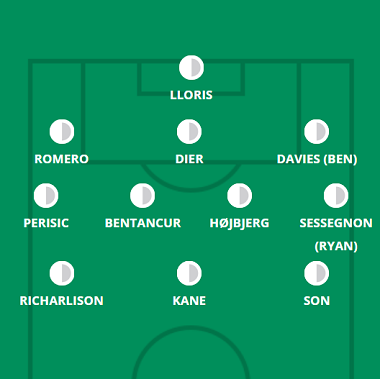
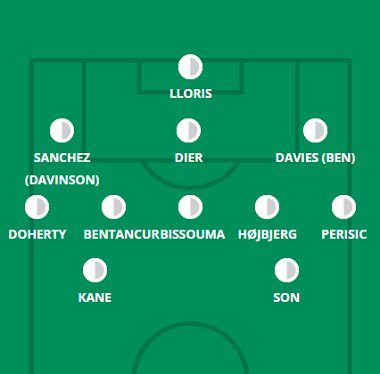
chelsea, palace, tot

diff --git a/chelsea.html b/chelsea.html
@@ -68,7 +68,7 @@
             <hgroup>
                 <h1> Provável Escalação</h1>
                 <h2 class="direita"> por FabioVascão </h2>
-                <h3 class="direita"> Atualizado em 07/Outubro/2022 </h3>
+                <h3 class="direita"> Atualizado em 14/Outubro/2022 </h3>
             </hgroup>
     
             <h2 class="time"> <img src="_fotos/_logos/logochelsea.png" />Chelsea</h2>
@@ -77,9 +77,9 @@
                     <img src="_fotos/_dinamicas/chelsea.png" />
                 </figure>
             </aside>
-                <div class="escalacao"><h2 class="titulo">Ultimas Notícias</h2> <h4><p>N'Golo Kante (ritmo de partido) e Wesley Fofana (lesão no joelho) são os únicos ausentes para o confronto com o Wolves, uma partida que cai como o jogo do meio em uma série de jogos de quarta-sábado-terça-feira - então Graham Potter poderia fazer um punhado de mudanças com o gerenciamento de minutos em mente. É tudo um jogo de adivinhação no momento, pois vimos três sistemas diferentes usados (3-5-2, 4-2-2-2, 3-4-2-1) em suas três primeiras partidas no comando, enquanto o próprio Potter está em território inexplorado com um elenco tão grande e uma programação regular de dois jogos por semana. Nove jogadores começaram os dois jogos competitivos na última semana, com Ben Chilwell um possível candidato a um descanso, já que ele passou tanto tempo afastado nos últimos 12 meses e acabou de ter 90 minutos consecutivos. Reece James também acumulou quatro jogos completos por clube e seleção na última quinzena e Thiago Silva, de 38 anos, durou os dois jogos desta semana, mas Potter pode considerar esse par muito importante para o seu time. Marc Cucurella está agora livre de problemas e "estará envolvido" contra o Wolves: ele poderia jogar como lateral no lugar de Chilwell, mas não é usado nessa posição por Potter desde fevereiro, com o espanhol sendo o lateral-esquerdo. papel híbrido de meia/lateral-esquerdo em Brighton. É também uma posição que o vimos ocupar na primeira partida de Potter no comando, contra o RB Salzburg, com Raheem Sterling brilhando no papel de 'Leandro Trossard' mais adiante no flanco. Jorginho e Kai Havertz esperam ser convocados após pequenas lesões que forçaram em parte seus bancos na Liga dos Campeões, enquanto Trevoh Chalobah busca uma oportunidade no lugar de Fofana no meio-campo. Kalidou Koulibaly também é uma opção em ambos os lados dos três zagueiros (ele apareceu na esquerda na quarta-feira), enquanto Conor Gallagher está fazendo o possível para dar ao seu técnico uma dor de cabeça na seleção no meio-campo, com algumas participações positivas no banco ultimamente.</p></h4><br>
-                    <h4><strong>Jogadores fora da próxima partida:</strong> Kante e Fofana</h4><br><br>
-                    <h4><strong>Jogadores dúvidas:</strong> </h4>
+                <div class="escalacao"><h2 class="titulo">Ultimas Notícias</h2> <h4><p>N'Golo Kanté (lesão na coxa), Wesley Fofana (lesão no joelho) e Reece James (lesão no joelho) perderão a viagem ao Aston Villa, com James e Kane prontos para ver especialistas neste fim de semana para determinar a extensão de suas lesões. Não houve outras novas preocupações relatadas no pré-jogo de Graham Potter, embora ainda não se saiba se Hakim Ziyech se recupera da doença que o levou a perder o jogo da Liga dos Campeões contra o Milan. Uma reviravolta de terça a domingo significa que podemos não ver as mudanças por atacado que causaram a carnificina do Fantasy na 11° Rodada, mas o Chelsea está prestes a embarcar em uma (outra) semana de três jogos, com Brentford e Manchester United seguindo na quarta e sábado e minuto -gestão certamente no fundo da mente de Potter. Kalidou Koulibaly e Trevoh Chalobah tiveram muito tempo de jogo nos últimos três jogos competitivos do Chelsea, por exemplo, enquanto Mason Mount é o único defensor externo sempre presente desde a mudança de regime - embora ele tenha pelo menos o segundo tempo de folga no meio da semana. Como o chefe do Blues lida sem James é a grande questão, com Cesar Azpilicueta o candidato mais provável se for um zagueiro, mas Ruben Loftus-Cheek, Raheem Sterling ou Christian Pulisic possibilidades se ele ficar com um sistema de ala no Villa Park. Conor Gallagher, Loftus-Cheek, Pulisic e Armando Broja esperam dar uma olhada nesta semana movimentada, com o jogo de Brentford em particular parecendo pronto para a rotação.</p></h4><br>
+                    <h4><strong>Jogadores fora da próxima partida:</strong> Kante, Fofana e James</h4><br><br>
+                    <h4><strong>Jogadores dúvidas:</strong> Ziyech </h4>
                 </div> 
         </header>
         </article>

diff --git a/tot.html b/tot.html
@@ -68,7 +68,7 @@
             <hgroup>
                 <h1> Provável Escalação</h1>
                 <h2 class="direita"> por FabioVascão </h2>
-                <h3 class="direita"> Atualizado em 07/Outubro/2022 </h3>
+                <h3 class="direita"> Atualizado em 14/Outubro/2022 </h3>
             </hgroup>
     
             <h2 class="time"> <img src="_fotos/_logos/logospurs.png" />Tottenham</h2>
@@ -77,9 +77,9 @@
                     <img src="_fotos/_dinamicas/tot.png" />
                 </figure>
             </aside>
-                <div class="escalacao"><h2 class="titulo">Ultimas Notícias</h2> <h4><p>Não tivemos notícias de Antonio Conte antes do prazo de sábado, mas sabemos que Emerson Royal inicia uma suspensão de três jogos e que Lucas Moura (lesão no tendão) permanecerá afastado por algum tempo, enquanto a viagem a Brighton também deve acontecer. logo para Dejan Kulusevski (lesão na coxa). Apesar de recentemente ter falado sobre a possibilidade de usar um 3-5-2, Conte permanece leal à configuração 3-4-3 que ele empregou durante a maior parte de seu mandato, iniciando Richarlison, Son Heung-min e Harry Kane juntos em ambos os jogos no sábado e na terça-feira. Não há nenhuma alternativa real para esse trio se o chefe dos Spurs mantiver suas armas taticamente (Bryan Gil é um substituto de impacto na melhor das hipóteses), mas ele tem mais opções disponíveis para ele se decidir sacrificar um ala e ocupar o meio-campo, com Oliver Skipp e as potenciais adições de Yves Bissouma, não muito confiáveis, à dupla habitual na volância. Alguns comentários bastante contundentes sobre Matt Doherty no meio da semana ("Agora não estou vendo ele no caminho certo para começar o jogo") e uma frieza geral em relação a Djed Spence aparentemente apontaria para Ivan Perisic e Ryan Sessegnon serem os laterais iniciais no Amex, com a reviravolta de terça a sábado, pelo menos, permitindo ao veterano croata um pouco de tempo extra de recuperação após quatro partidas consecutivas para clube e seleção no espaço de duas semanas. Também não se surpreenda ao ver uma mudança no meio-campo, com base em precedentes anteriores: Ben Davies e Davinson Sanchez são as alternativas a Clement Lenglet e Cristian Romero, respectivamente. </p></h4><br>
-                    <h4><strong>Jogadores fora da próxima partida:</strong> Bergwijn, Lucas Moura e Emerson Royal</h4><br><br>
-                    <h4><strong>Jogadores dúvidas:</strong> Kulusevski</h4>
+                <div class="escalacao"><h2 class="titulo">Ultimas Notícias</h2> <h4><p>Emerson Royal continua a cumprir uma suspensão de três jogos e Dejan Kulusevski (lesão na coxa) permanece de fora, mas Lucas Moura (tendão) estava de volta ao elenco da rodada no meio da semana e os comentários de Antonio Conte sobre ter o mesmo elenco disponível sugerem que Richarlison está bem depois que ele levou uma pancada no joelho na quarta-feira. Lucas provavelmente ainda não estará pronto para começar depois de uma longa paralisação, então a decisão de Conte de ir para um 3-4-3 ou 3-5-2 pode depender da prontidão do brasileiro para a ação, com Yves Bissouma ou Oliver Skipp está prestes a substituir, se não. Menos de 72 horas separam a vitória sobre Frankfurt neste jogo, então, com o confronto no meio da semana com o Manchester United também no horizonte, Conte pode embaralhar seu pacote um pouco com a gestão de minutos em mente. Ele insinuou fortemente no presser de sexta-feira que havia alguns jogadores que ele não descansaria, no entanto: Pierre Emile-Hojbjerg, Rodrigo Bentancur, Harry Kane e Eric Dier foram todos apontados como "jogando um futebol incrível", com Conte acrescentando que é "melhor" para eles "começar o jogo". Ivan Perisic certamente será convocado para este jogo após as partidas consecutivas de Ryan Sessegnon, enquanto os elogios a Matt Doherty na conferência de imprensa pré-jogo sugerem que o irlandês mantém seu lugar na lateral direita. A rotação pode continuar em ambos os lados de Dier na defesa, no entanto, com Cristian Romero em particular um candidato a um descanso, já que ele está em uma série de quatro partidas consecutivas desde o intervalo internacional. </p></h4><br>
+                    <h4><strong>Jogadores fora da próxima partida:</strong> Bergwijn, Kulusevski e Emerson Royal</h4><br><br>
+                    <h4><strong>Jogadores dúvidas:</strong> </h4>
                 </div> 
         </header>
         </article>

diff --git a/palace.html b/palace.html
@@ -68,7 +68,7 @@
             <hgroup>
                 <h1> Provável Escalação</h1>
                 <h2 class="direita"> por FabioVascão </h2>
-                <h3 class="direita"> Atualizado em 07/Outubro/2022 </h3>
+                <h3 class="direita"> Atualizado em 14/Outubro/2022 </h3>
             </hgroup>
     
             <h2 class="time"> <img src="_fotos/_logos/logopalace.png" />Crystal Palace</h2>
@@ -77,9 +77,9 @@
                     <img src="_fotos/_dinamicas/palace.png" />
                 </figure>
             </aside>
-                <div class="escalacao"><h2 class="titulo">Ultimas Notícias</h2> <h4><p>Nathaniel Clyne (lesão no tornozelo) juntou-se a James McArthur (lesão na virilha) para a partida deste fim de semana, mas Nathan Ferguson (lesão no pé), Jack Butland (problema na mão) e Joachim Andersen (lesão na panturrilha) voltaram a treinar esta semana, com o último programado para retornar se não houver retrocessos em sua recuperação. O Palace pode ter problemas no meio-campo além de Andersen, com Chris Richards não envolvido na equipe da semana passada (ele saiu da seleção por um problema não especificado) e Marc Guehi jogando através da barreira da dor na Rodada 9 com problemas no tornozelo, então James Tomkins estará em modo de espera mais uma vez na parte traseira. Vieira surpreendeu ao jogar Michael Olise como número oito contra o Chelsea e pode novamente optar por essa configuração muito ofensiva depois de se mostrar promissora contra adversários mais difíceis no papel, com opções alternativas de Will Hughes ou Jeffrey Schlupp no meio-campo se Olise for transferido para a ala direita às custas de Jordan Ayew. Odsonne Edouard e Jean-Philippe Mateta continuam a dividir o tempo de jogo no topo, mas depois de marcar contra os Blues no último fim de semana, Edouard espera ter feito o suficiente para manter sua vaga no Selhurst Park.</p></h4><br>
-                    <h4><strong>Jogadores fora da próxima partida:</strong> Clyne e McArthur</h4><br><br>
-                    <h4><strong>Jogadores dúvidas:</strong> Andersen, Butland, Ferguson e Richards</h4>
+                <div class="escalacao"><h2 class="titulo">Ultimas Notícias</h2> <h4><p>O Palace não tem novas preocupações com lesões, embora Will Hughes não faça parte da equipe neste fim de semana devido a uma doença. Patrick Vieira também se esquivou de uma pergunta sobre se algum de seus jogadores lesionados estaria de volta, com Nathaniel Clyne (lesão no tornozelo), James McArthur (lesão navirilha) e Chris Richards (lesão na coxa) na lista de lesões da última vez que ouvimos e Nathan Ferguson (lesão no pé) e Jack Butland (lesão na mão) só recentemente voltou a treinar após longas paradas. Vieira certamente não repetirá a experiência de 'Jeffrey Schlupp na lateral esquerda' após as dificuldades do internacional de Gana na semana passada, os rumores são de que Tyrick Mitchell não estava bem à frente daquele jogo contra o Leeds, o que explicaria seu banco. Schlupp ainda pode manter seu lugar, no entanto, voltando ao seu papel habitual no meio-campo central se Vieira considerar que a configuração ofensiva das últimas semanas está muito aberta para uma partida fora de casa contra um time do Leicester que ainda está marcando bem, apesar de suas dificuldades. atrás. Michael Olise, muitas vezes parado na estrada às custas de Jordan Ayew na última temporada, pode, portanto, abrir caminho.</p></h4><br>
+                    <h4><strong>Jogadores fora da próxima partida:</strong> Clyne, Hughes e McArthur</h4><br><br>
+                    <h4><strong>Jogadores dúvidas:</strong> Butland, Ferguson e Richards</h4>
                 </div> 
         </header>
         </article>
